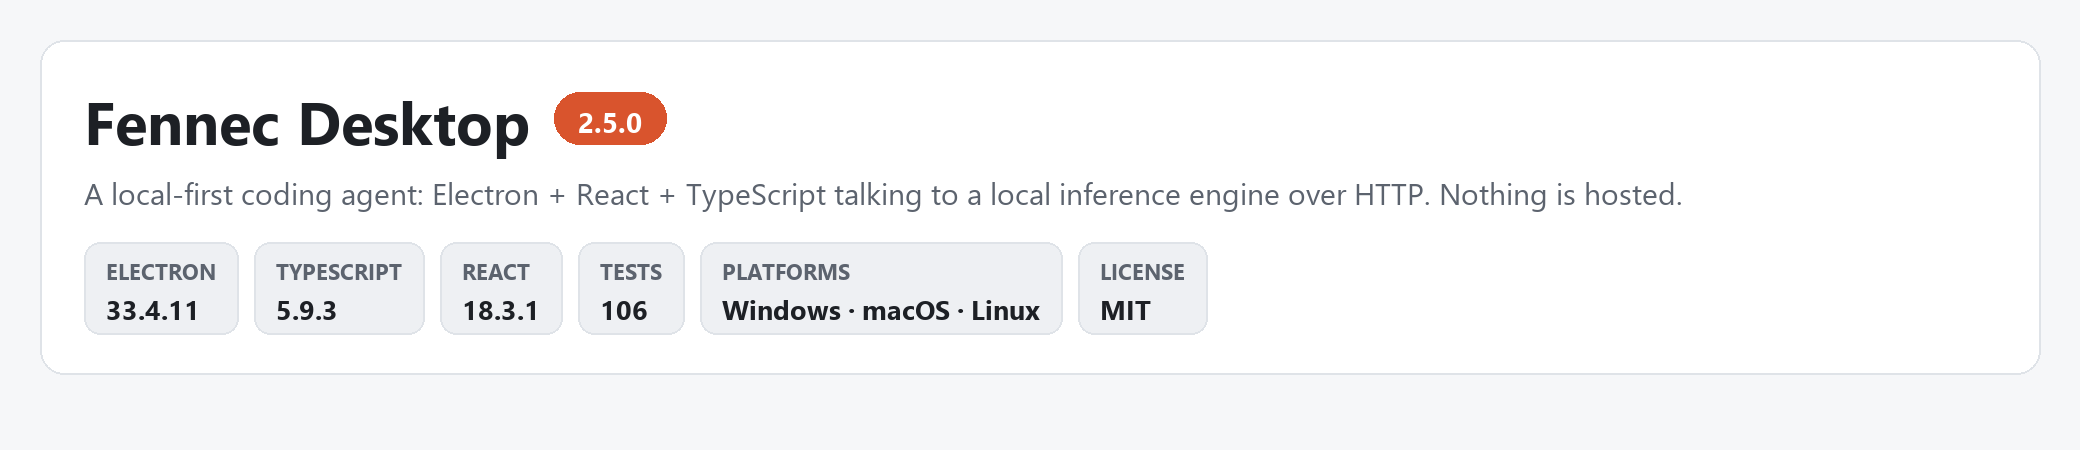
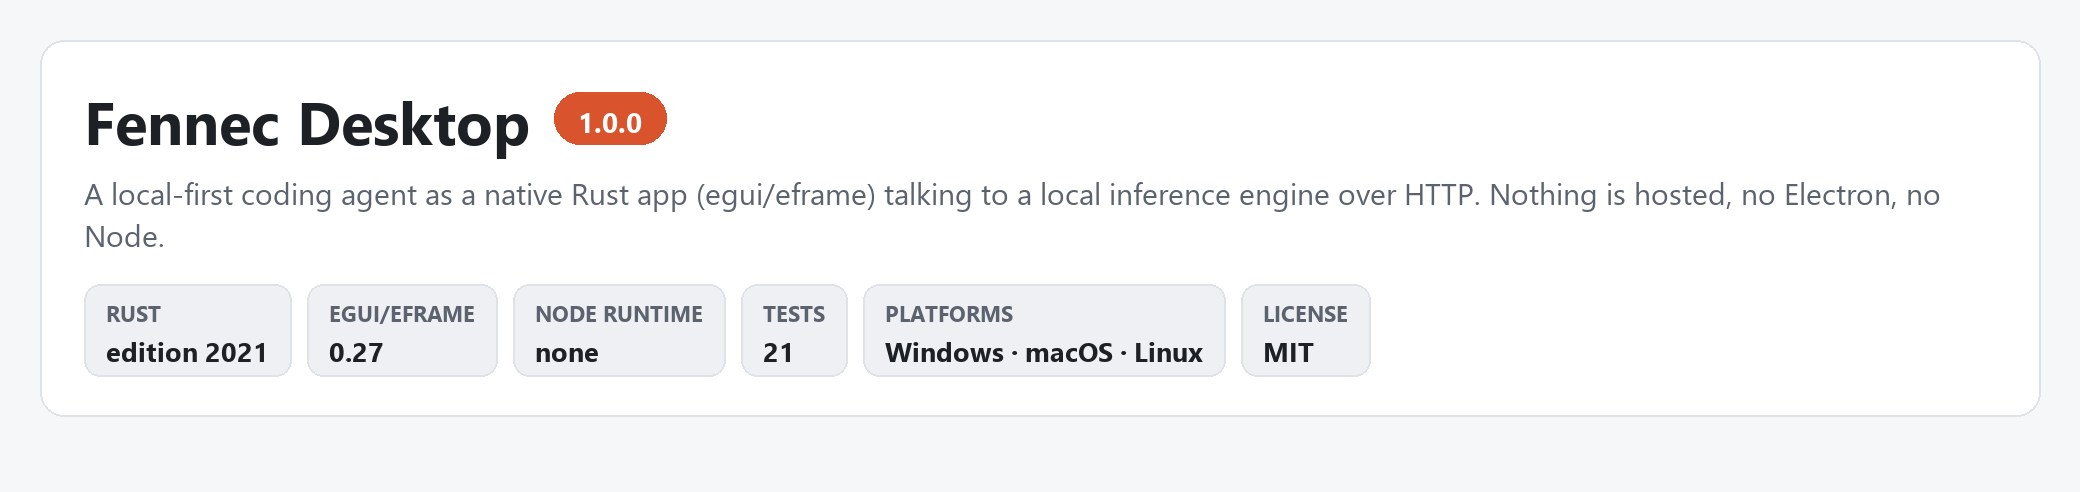
Version the desktop app 1.0.0 and publish its hero
The badge comes from Cargo.toml, so the photo and the manifest move together.

diff --git a/README.md b/README.md
@@ -1,4 +1,4 @@
-![Fennec Desktop 2.5.0 — a local-first coding agent as a native Rust app (egui), talking to the local Fennec inference engine. Nothing is hosted. No Electron, no Node, no web view. Windows macOS Linux, MIT license.](docs/hero.png)
+![Fennec Desktop 1.0.0 — a local-first coding agent as a native Rust app (egui), talking to the local Fennec inference engine. Nothing is hosted. No Electron, no Node, no web view. Windows macOS Linux, MIT license.](docs/hero.png)
 
 Fennec is a native Rust desktop app (egui/eframe) for the suite. The model, the agent loop,
 the tools and the workspace discovery all run on this device; nothing is hosted, no account,
@@ -14,7 +14,7 @@ source is preserved on the `legacy-electron` branch; the tracked source is Rust 
 
 | UI | Backend | Compaction | Tests | Platforms |
 |---|---|---|---|---|
-| native window, egui/eframe | agent server `127.0.0.1:8787`, engine SSE `127.0.0.1:8184` | `fennec-economy`, in-process | 10 | Windows, macOS, Linux |
+| native window, egui/eframe | agent server `127.0.0.1:8787`, engine SSE `127.0.0.1:8184` | `fennec-economy`, in-process | 19 | Windows, macOS, Linux |
 
 ## Architecture
 
@@ -37,12 +37,17 @@ selector shows is what `fennec update` keeps current.
 |---|---|
 | Left rail | Fennec brand, real repository selector (manifest `repos[]` that exist on disk), Coding / My Attention / New Task / Search, recent sessions from the agent server, repo · branch · changed footer |
 | Center | Task header, structured timeline: streamed reasoning and answers, one card per tool call (category, title, Running / Complete / Warning / Failed, duration, arguments, expandable result), copyable code blocks, persistent composer, the loop's three jail switches (edits / commands / web) |
-| Right | Environment (core, engine, model, context window, tokens/s, outlets — live values), Subagents, Artifacts (files the run actually wrote), Research, context compaction |
+| Right | Environment (core, engine, model, vision, context window, tokens/s, outlets — live values), Subagents, Artifacts (files the run actually wrote), Research, context compaction |
 
 > [!NOTE]
 > Panels report what the backend actually exposes. With only the engine running the app is in
 > direct chat mode, so the tool timeline is empty and says so; features with no backend
-> registry are shown as unavailable instead of being faked.
+> registry are shown as unavailable instead of being faked — the composer's image, record and
+> read-aloud buttons stay disabled, each tooltip naming the reason. For images the reason comes
+> from the engine: `/health` answers with either a `vision` flag or an `input_modalities` list
+> (the Fennec engine declares `vision: false`; a Colibri server lists `image`), and an engine
+> that never answered is reported as this shell having no attachment path, because that is the
+> blocker either way. The Environment pane mirrors the same three states in its Vision row.
 
 ## Build and run
 
@@ -51,12 +56,17 @@ The app path-depends on the sibling `fennec-core` checkout, so fetch the repos t
 
 ```bash
 cargo build --release --offline        # ./target/release/fennec-desktop(.exe)
-cargo test  --release --offline        # 10 tests
+cargo test  --release --offline        # 21 tests
 ```
 
 The engine and the agent server start independently of the app; the Environment panel offers
 `Start agent loop` when the server is not reachable. CI checks out `fennec-core` beside this
 repo and runs the same two commands.
+
+The layout is tested without a window. One test paints the whole interface through
+`egui::Context::run` and measures the triangles the painter would have received, at the
+default and the minimum window size, so a pane that collapses fails the suite instead of only
+looking wrong on somebody's screen.
 
 ## Which engine answers
 
